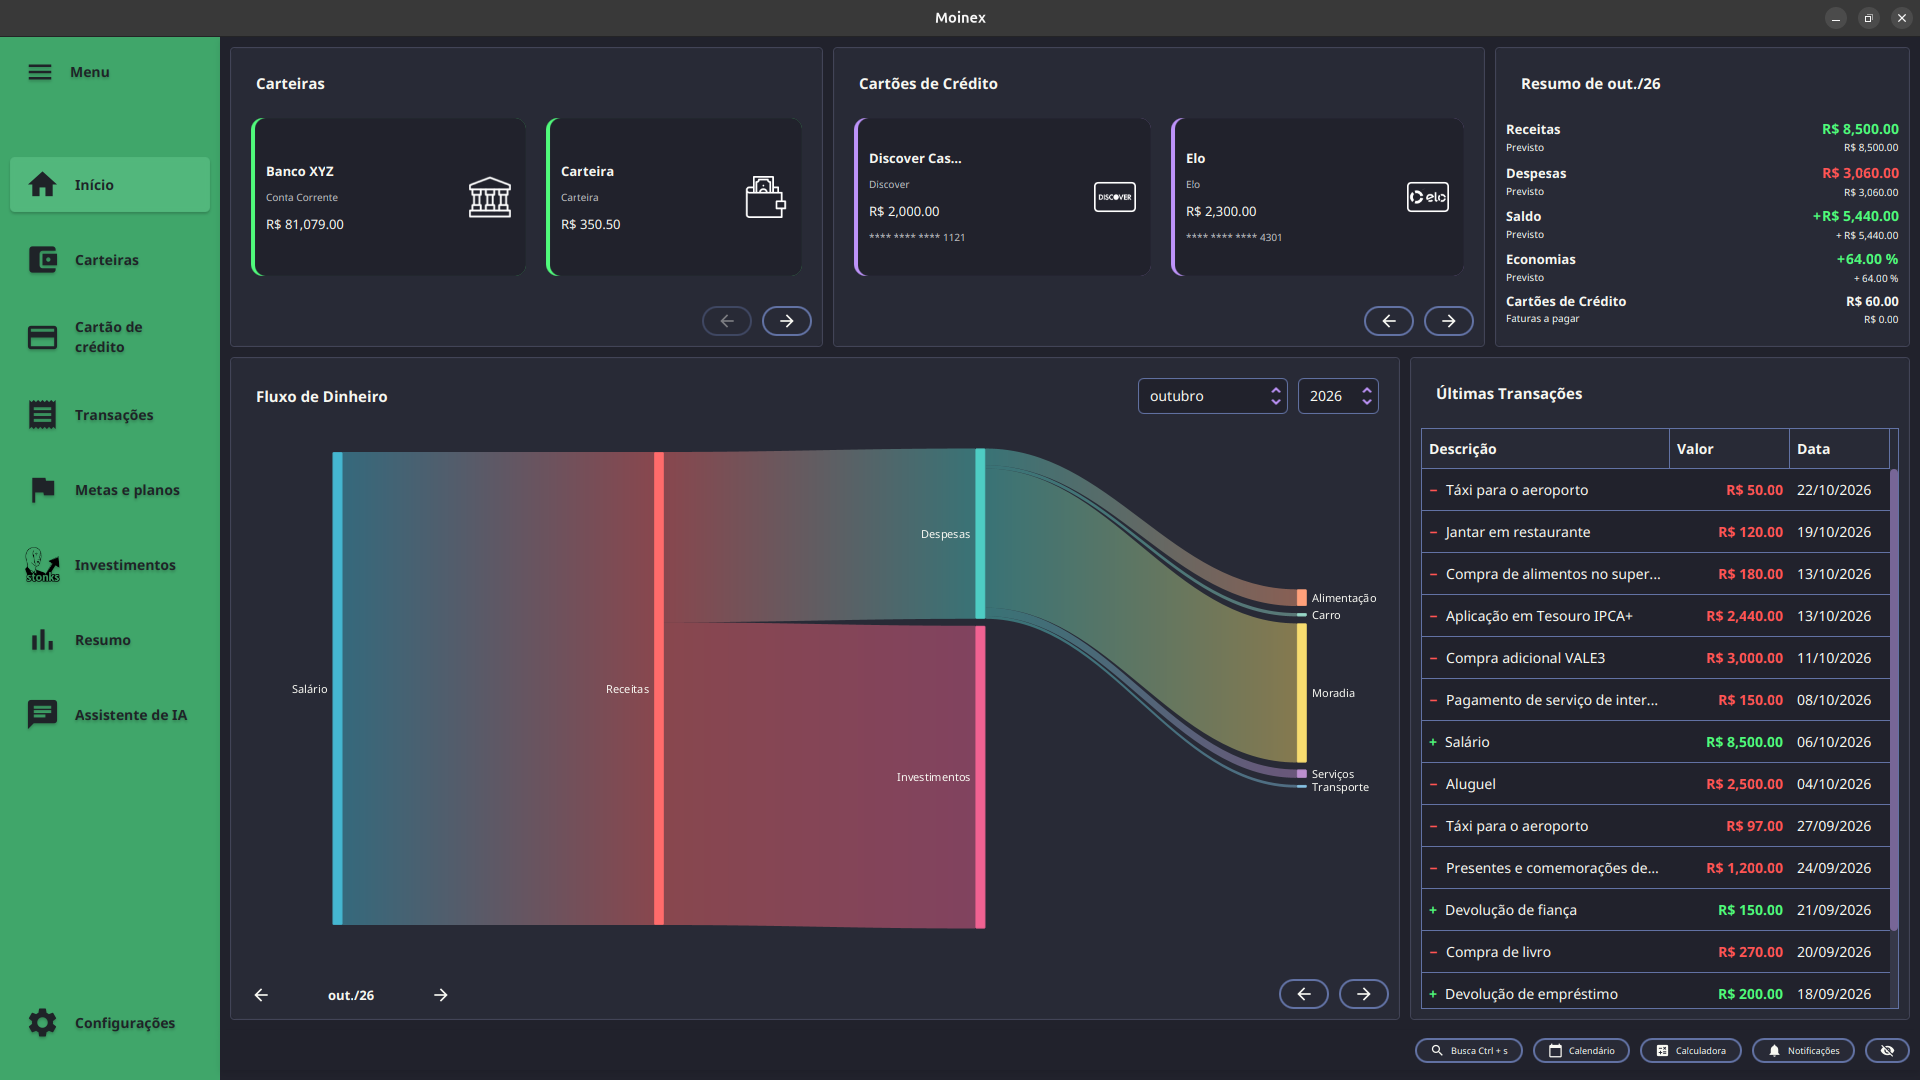
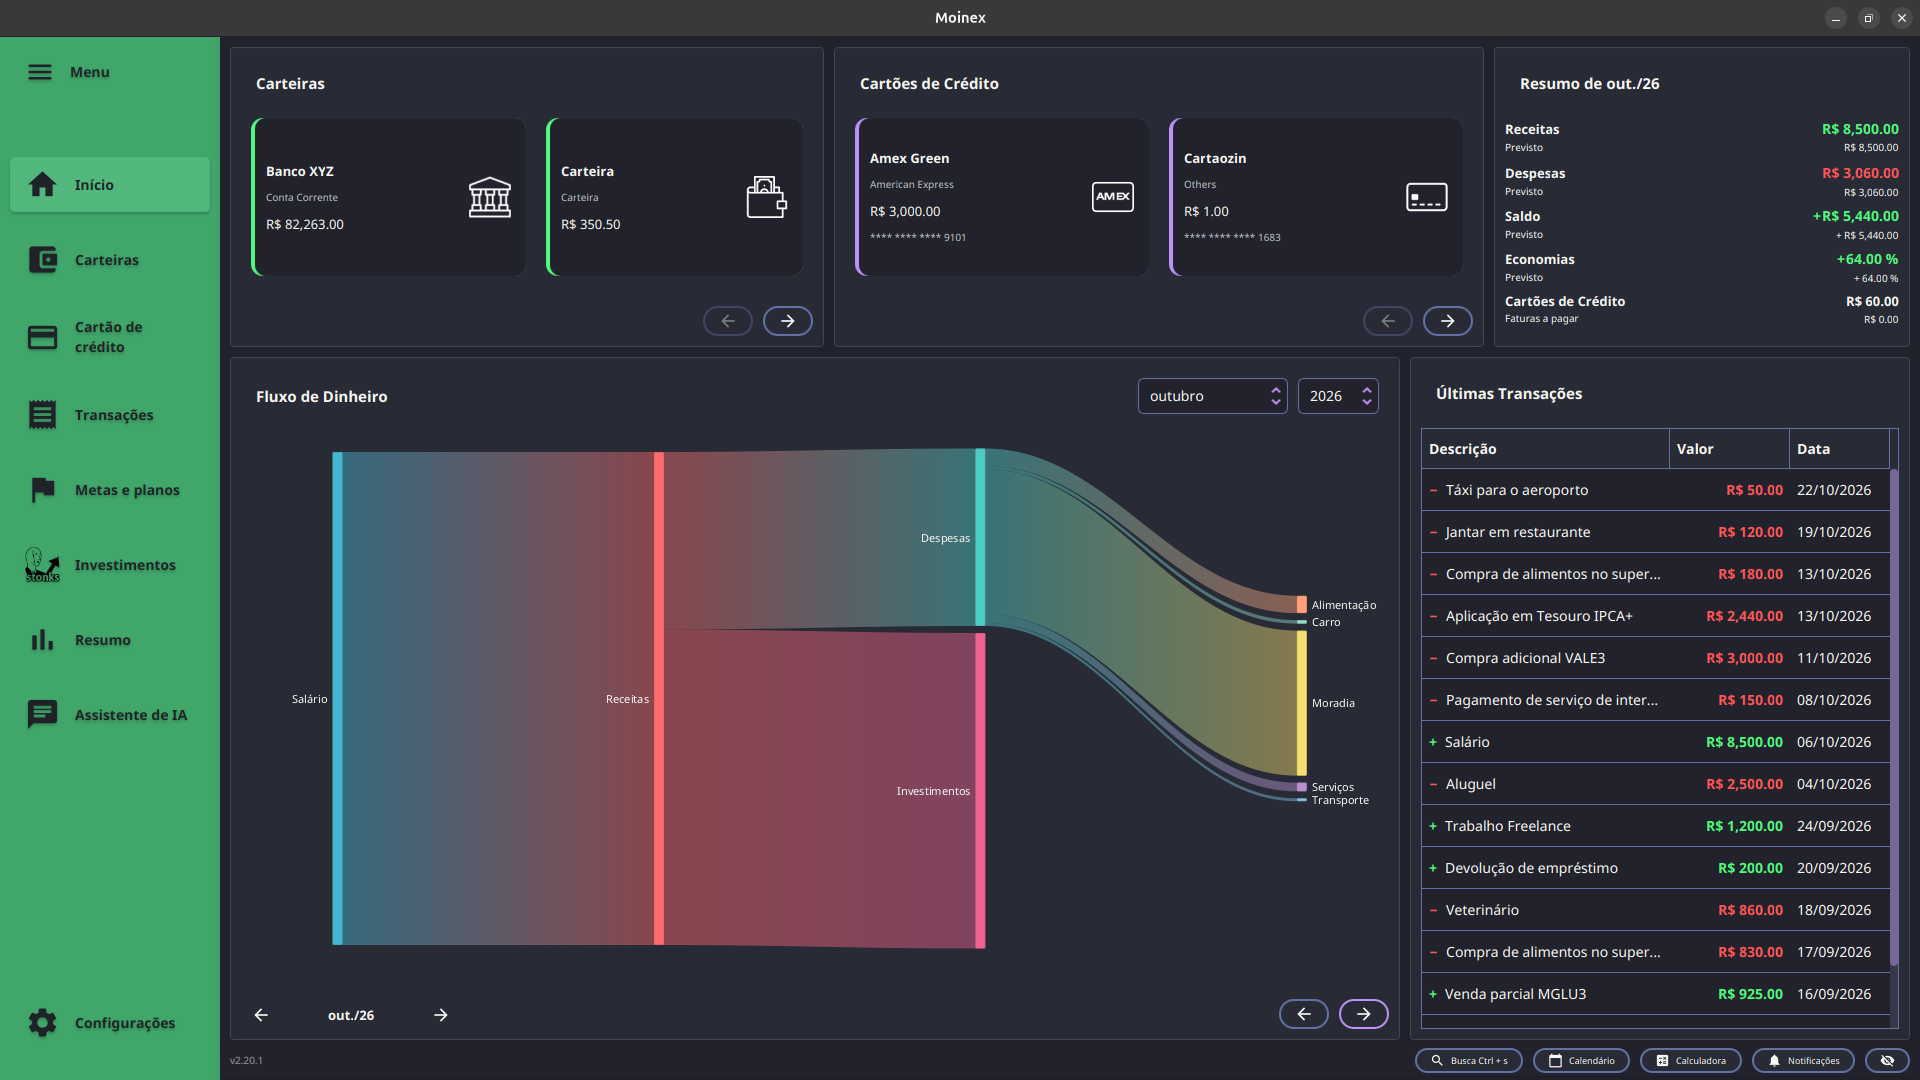
feat: show app version in the footer and tighten footer spacing

diff --git a/src/main/kotlin/org/moinex/ui/main/MainController.kt b/src/main/kotlin/org/moinex/ui/main/MainController.kt
@@ -58,6 +58,7 @@ import org.slf4j.LoggerFactory
 import org.springframework.context.ConfigurableApplicationContext
 import org.springframework.stereotype.Controller
 import java.io.IOException
+import java.util.Properties
 import kotlin.math.abs
 
 @Controller
@@ -118,6 +119,9 @@ class MainController(
     @FXML
     private lateinit var unreadBadge: Label
 
+    @FXML
+    private lateinit var versionLabel: Label
+
     private var currentContent: Pair<String, String>? = null
     private var isMenuExpanded = false
     private var isNotificationPanelOpen = false
@@ -140,8 +144,15 @@ class MainController(
         private const val DRAG_THRESHOLD = 4.0
     }
 
+    private fun loadAppVersion(): String =
+        javaClass.getResourceAsStream("/version.properties")?.use { stream ->
+            Properties().apply { load(stream) }.getProperty("app.version")
+        } ?: ""
+
     @FXML
     fun initialize() {
+        versionLabel.text = "v${loadAppVersion()}"
+
         sidebarButtons =
             arrayOf(
                 menuButton,

diff --git a/src/main/resources/css/scene/main.css b/src/main/resources/css/scene/main.css
@@ -157,3 +157,9 @@
   -fx-text-fill: theme-text-secondary;
 }
 
+.footer-version {
+  -fx-font-size: 10px;
+  -fx-text-fill: theme-text-secondary;
+  -fx-opacity: 0.7;
+}
+
